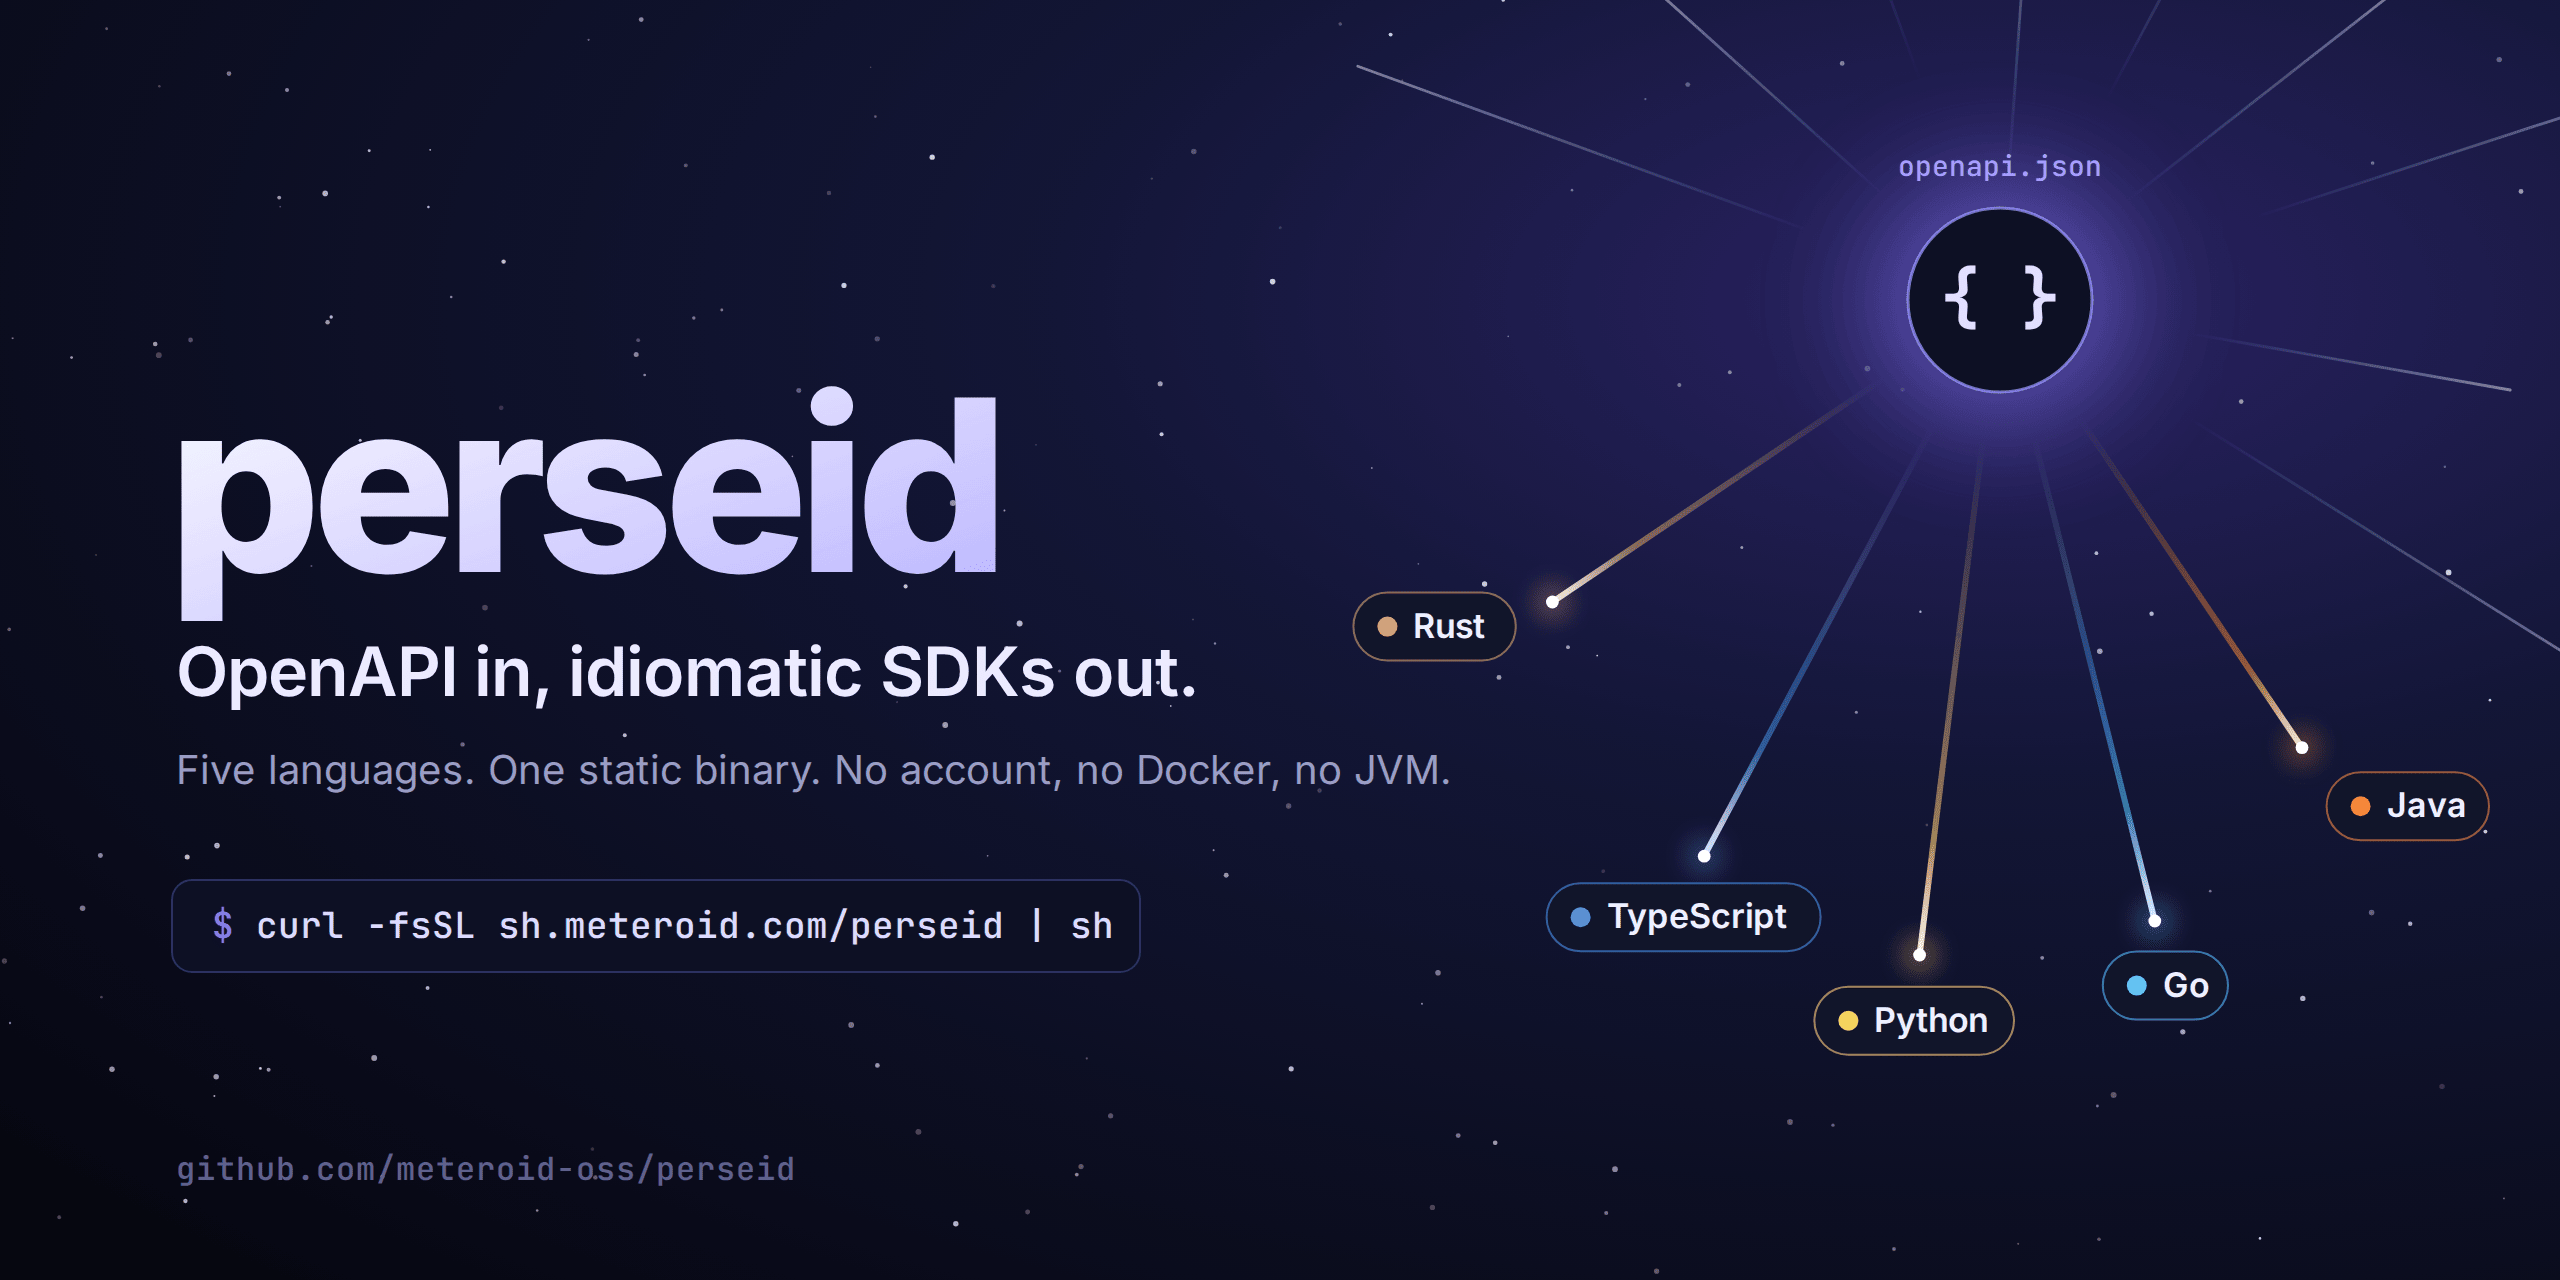
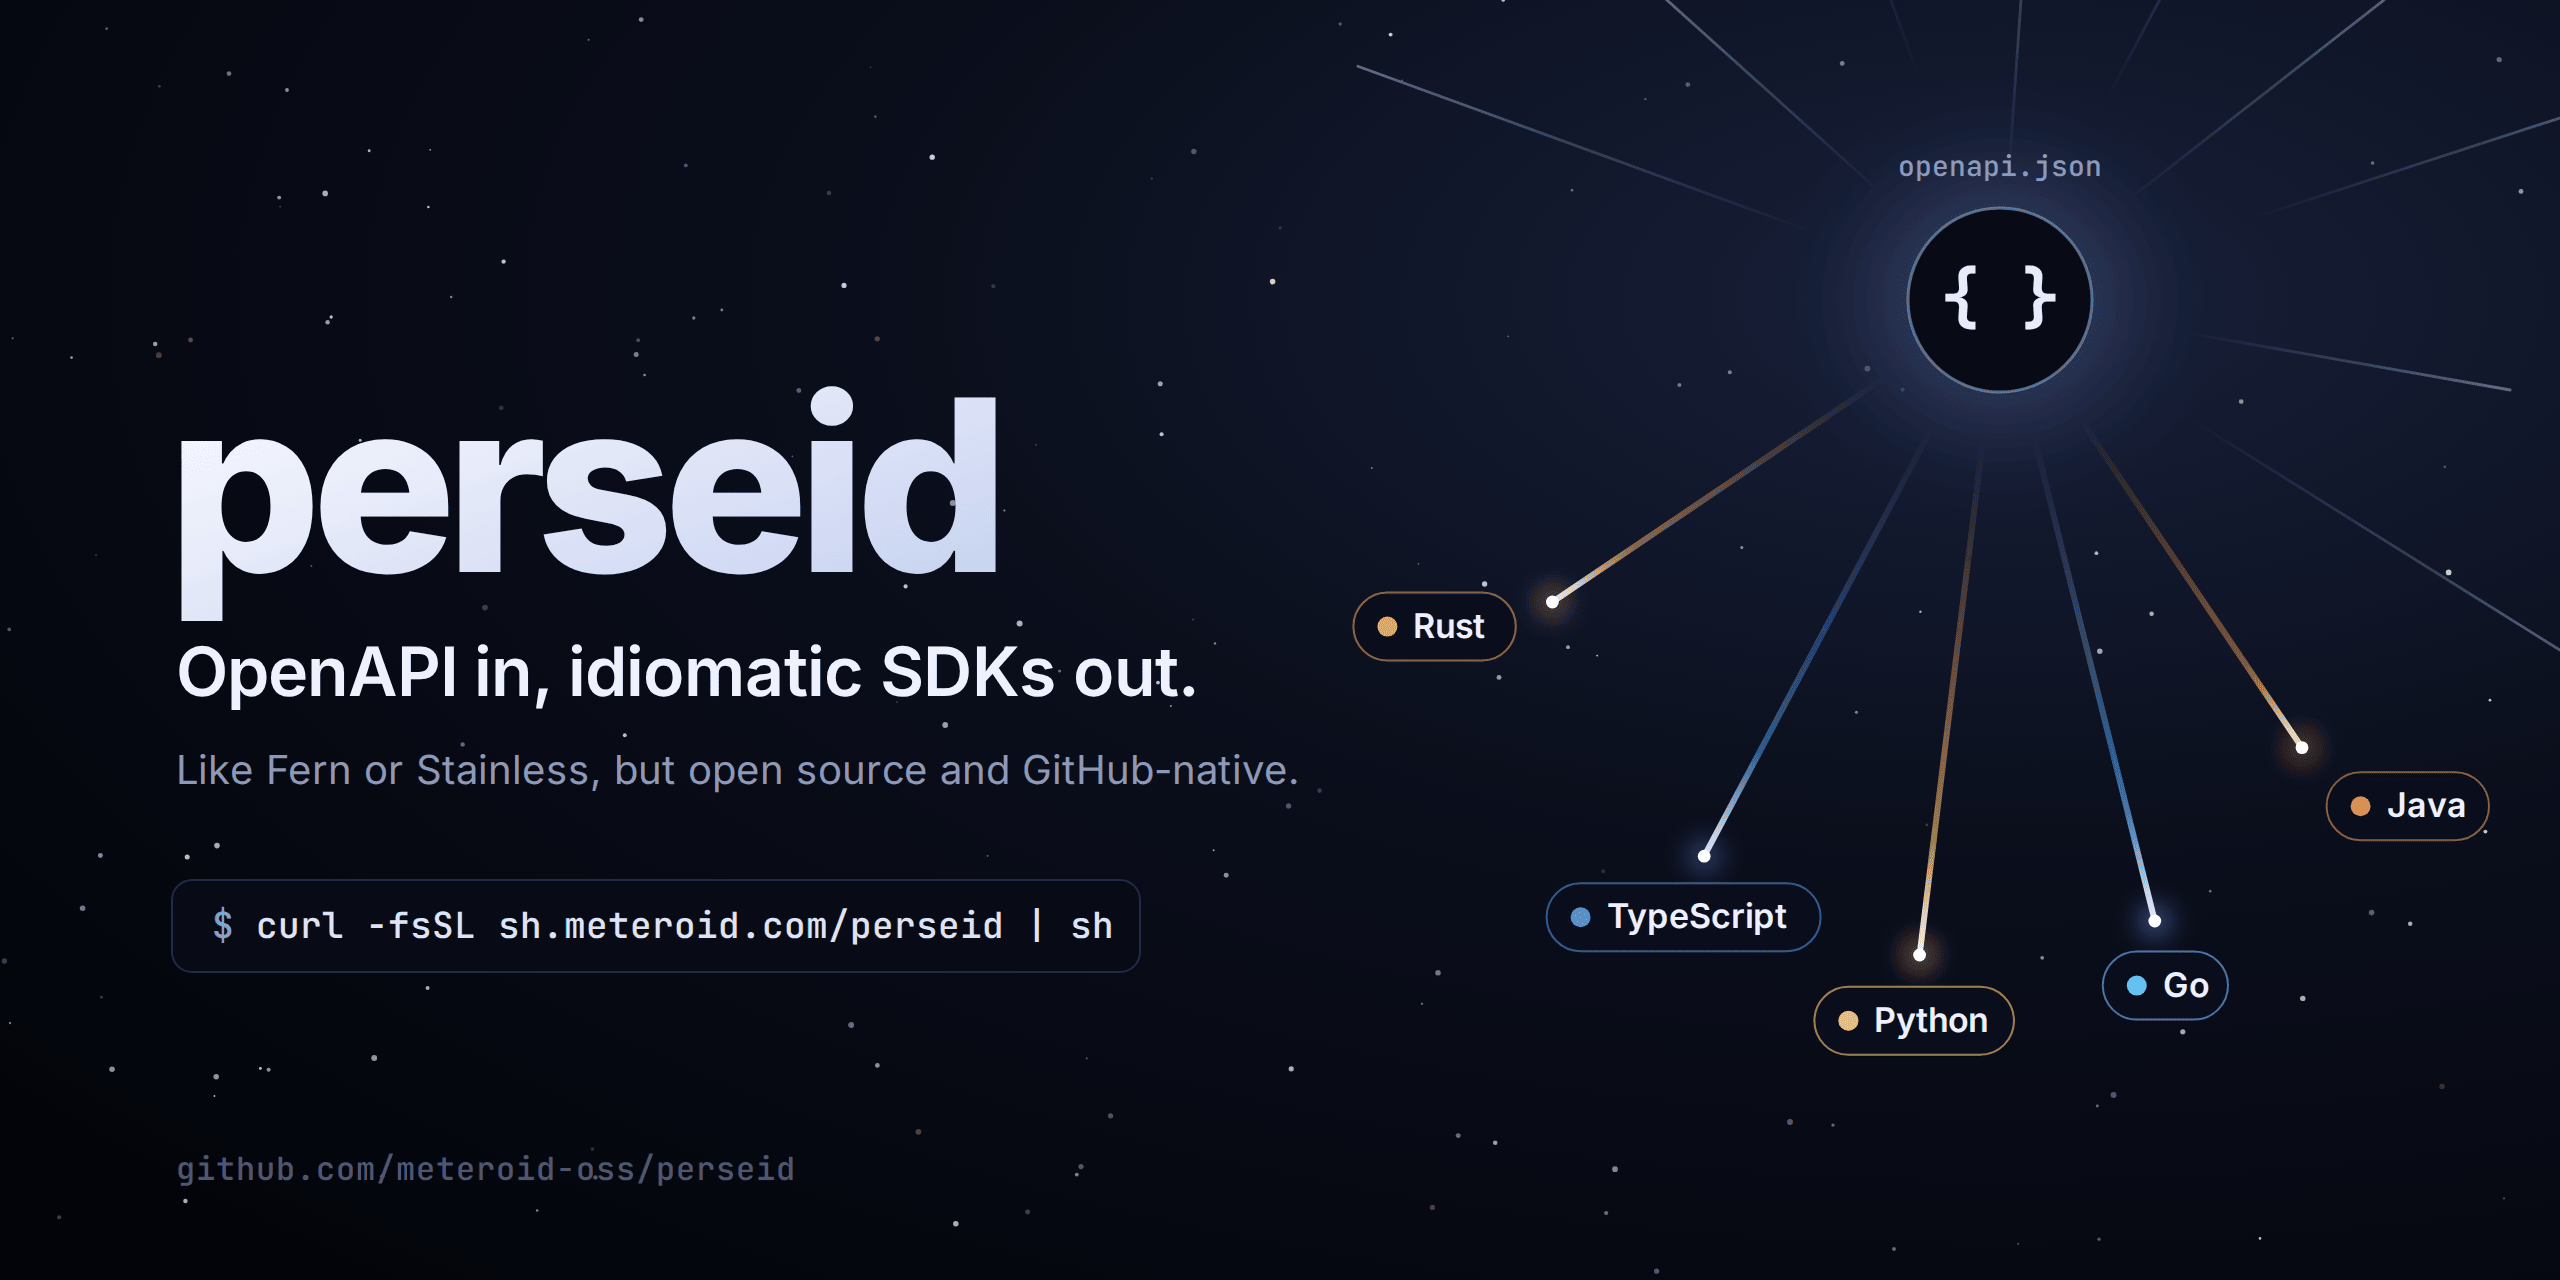
docs: darker cover, GitHub-native pitch and a status section

diff --git a/README.md b/README.md
@@ -1,13 +1,14 @@
 <p align="center"><img src=".github/cover.png" alt="perseid: OpenAPI in, idiomatic SDKs out" width="100%"></p>
 
-**OpenAPI in, idiomatic SDKs out.** Rust, TypeScript, Python, Go and Java from one static binary.
-No account, no Docker, no JVM. An open-source, self-hosted alternative to Fern, Speakeasy and Stainless.
+**The SDK pipeline Fern, Speakeasy and Stainless sell, open source and GitHub-native.**
+Change your OpenAPI spec, and idiomatic Rust, TypeScript, Python, Go and Java SDKs regenerate
+and land as pull requests, in one repository or one per language. One static binary, no account.
 
 ```sh
 curl -fsSL https://sh.meteroid.com/perseid | sh
 
 perseid init       # finds openapi.json, writes perseid.toml and package skeletons
-perseid generate   # five formatted SDKs, in seconds
+perseid generate   # formatted SDKs for every language, in seconds
 ```
 
 ```ts
@@ -85,6 +86,18 @@ Output goes through `rustfmt`, `biome`, `ruff`, `gofmt` and `google-java-format`
 SDK's own formatter configuration. Locally, missing `biome` or `ruff` run pinned through `npx` or
 `uvx`. The GitHub Action reads the languages from `perseid.toml` and installs only the pinned
 native formatters they need: no JVM, Node or Python setup.
+
+## Status
+
+Early, and honest about it:
+
+- **OpenAPI 3.1** only, JSON or YAML. 3.0 documents are rejected for now; upgrading them
+  automatically is planned.
+- Proven on [Meteroid's API](https://github.com/meteroid-oss/meteroid-clients) and our test
+  specs, not yet on hundreds of APIs. Unsupported constructs make generation fail instead of
+  being skipped: an issue with the spec attached is the fastest way to get one supported.
+- Not there yet: pagination helpers, auth other than bearer tokens, streaming outside Rust,
+  publishing to package registries (keep your usual release workflow). C# is next.
 
 ## License
 
